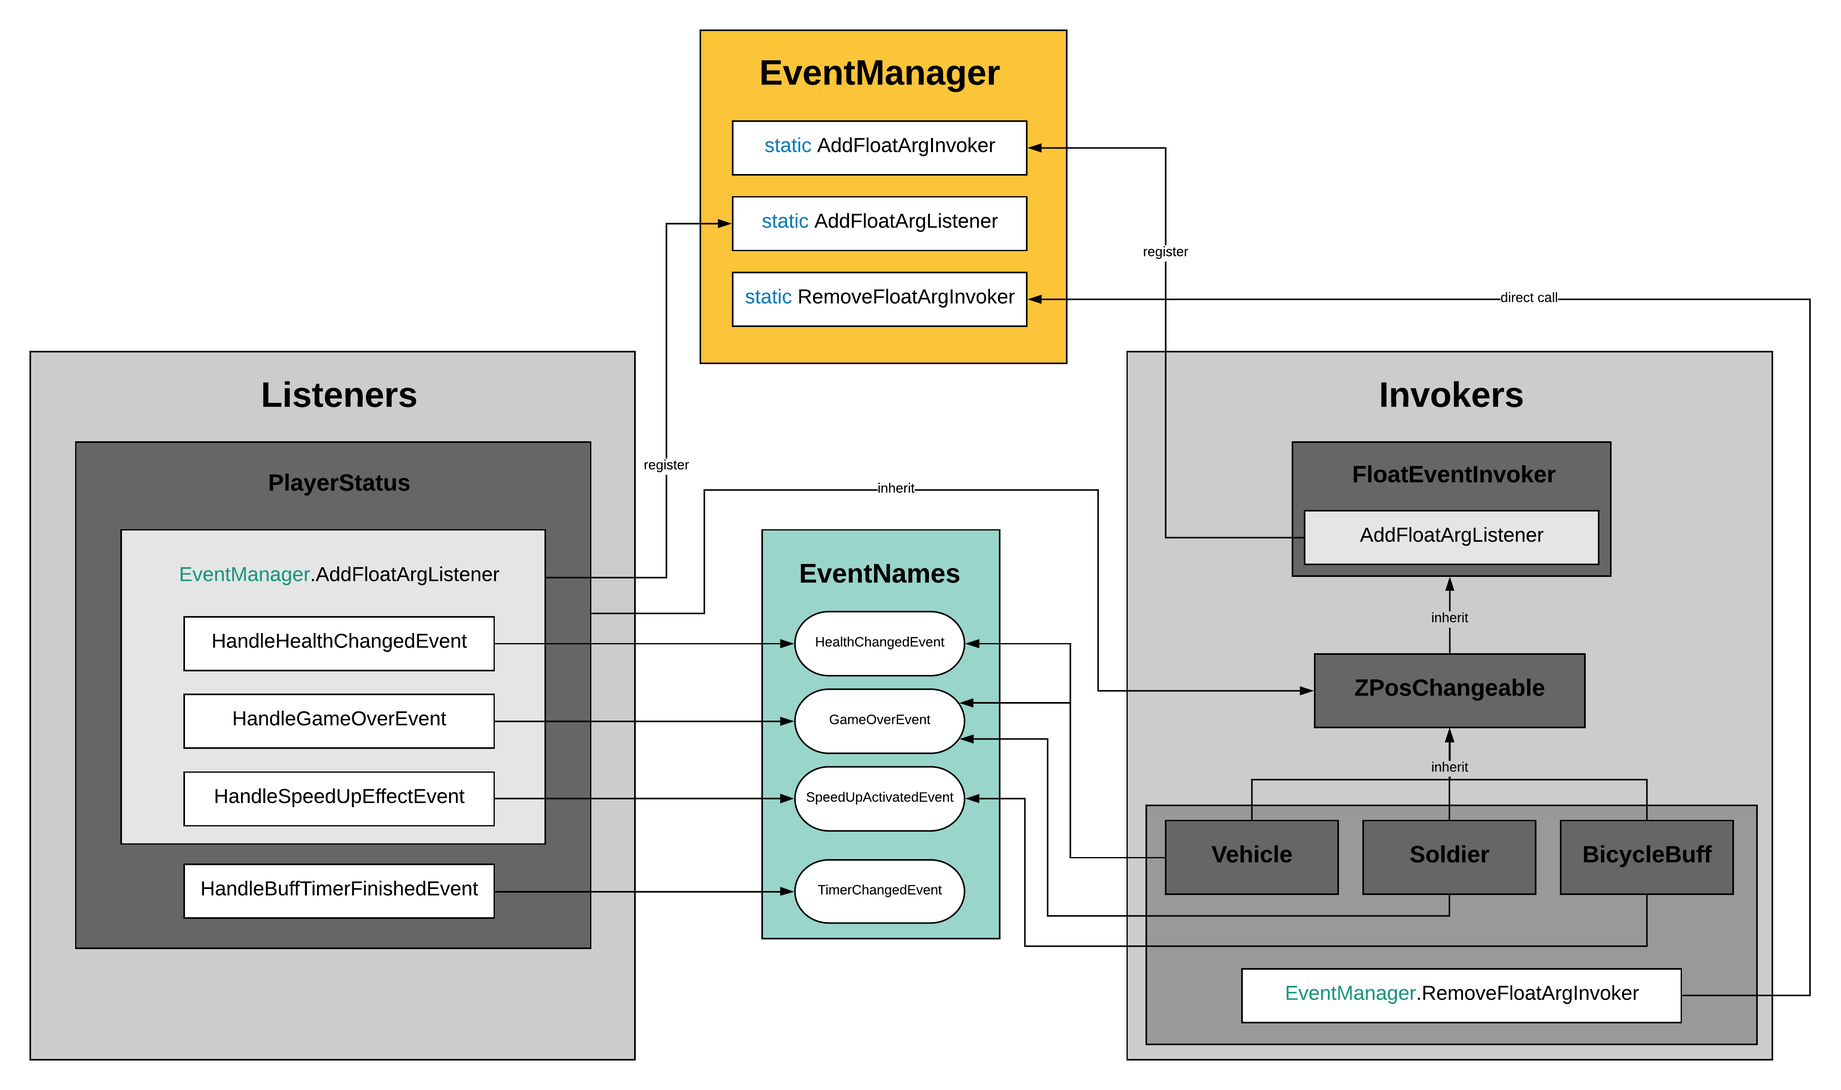
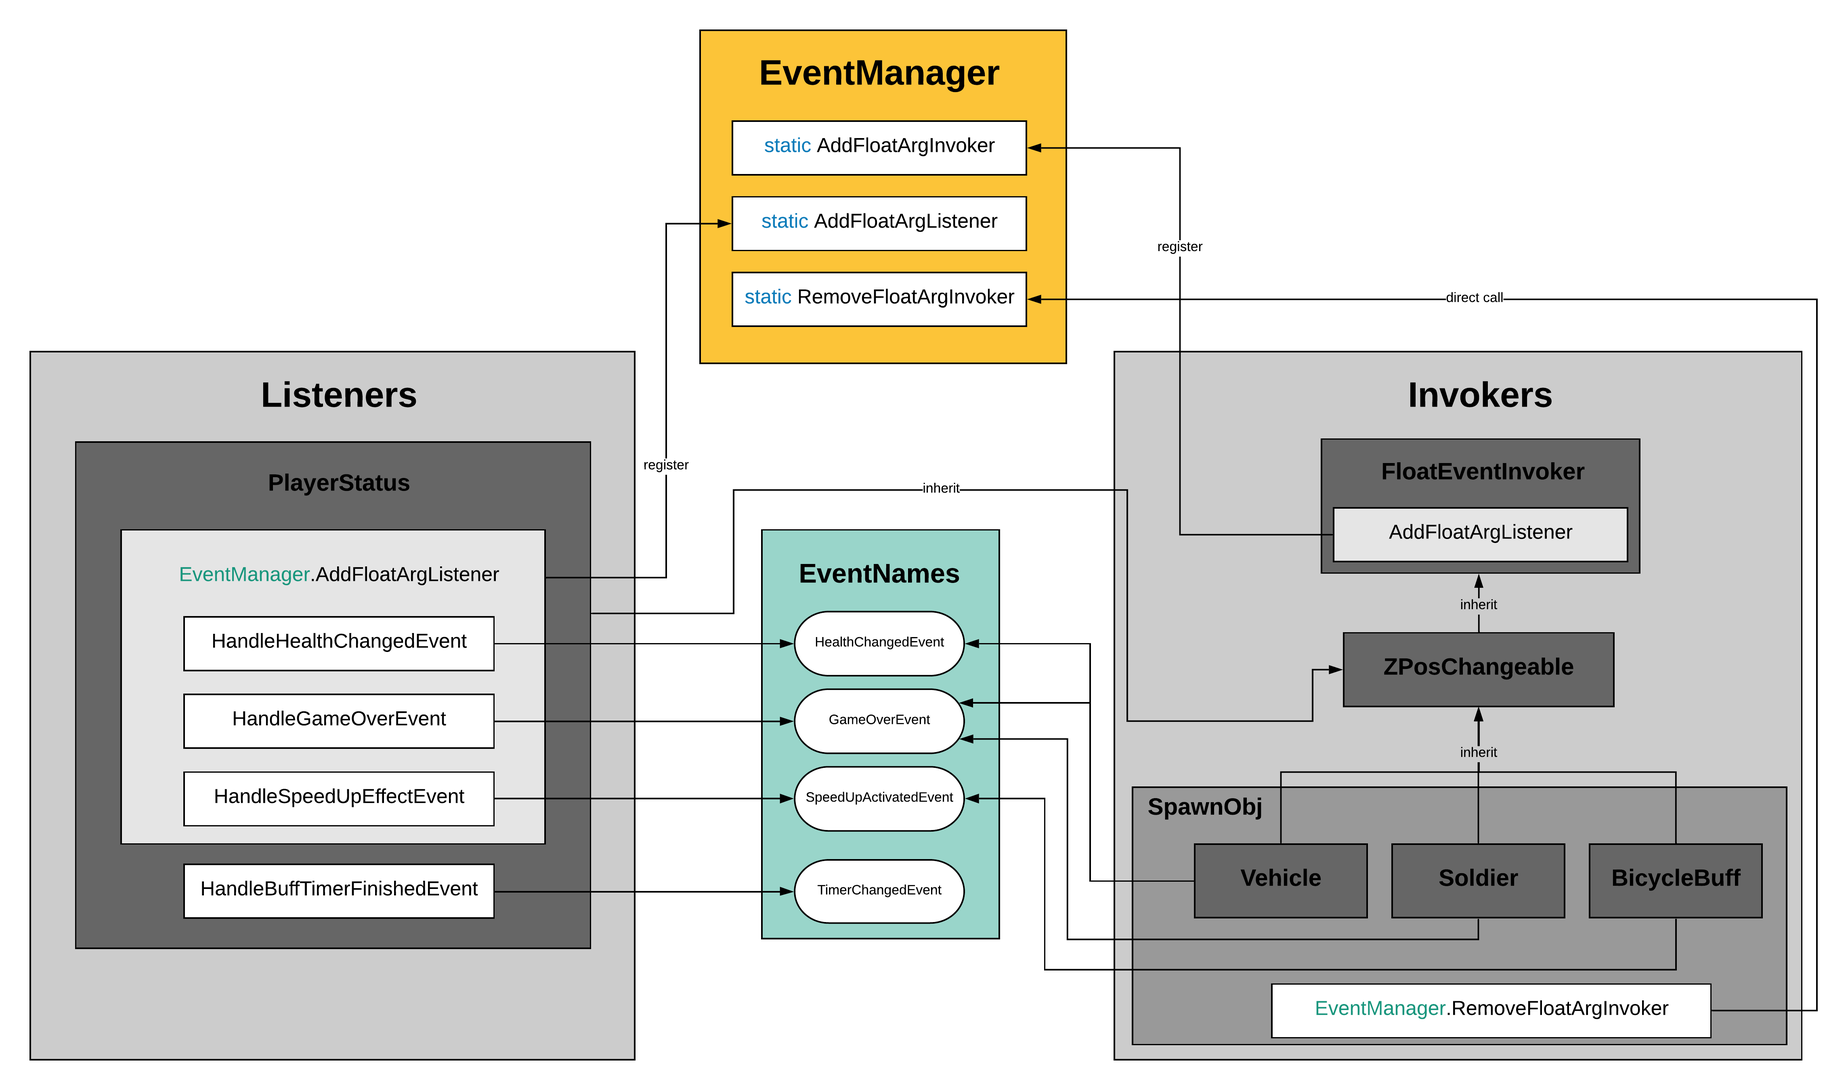
invoker section documentation finished

diff --git a/Documentation/source/_build/html/arch/event_handling.html b/Documentation/source/_build/html/arch/event_handling.html
@@ -84,7 +84,7 @@
 <ul class="current">
 <li class="toctree-l1 current"><a class="current reference internal" href="#">Event Handling Pattern</a><ul>
 <li class="toctree-l2"><a class="reference internal" href="#event-manager">Event Manager</a></li>
-<li class="toctree-l2"><a class="reference internal" href="#invoker">Invoker</a></li>
+<li class="toctree-l2"><a class="reference internal" href="#invokers">Invokers</a></li>
 </ul>
 </li>
 <li class="toctree-l1"><a class="reference internal" href="config_data.html">Configuration Data Utilities &amp; Game Initialisation</a></li>
@@ -242,8 +242,66 @@
 </pre></div>
 </div>
 </div>
-<div class="section" id="invoker">
-<h2>Invoker<a class="headerlink" href="#invoker" title="Permalink to this headline">¶</a></h2>
+<div class="section" id="invokers">
+<h2>Invokers<a class="headerlink" href="#invokers" title="Permalink to this headline">¶</a></h2>
+<p>Instead of defining the invokers’ properties separately, we firstly define a parent class of invokers <code class="docutils literal notranslate"><span class="pre">FloatEventInvoker</span></code>. Dictionary once again has been utilised to enable us to inoke more than one event. The keys don’t have to be strings but any data type, in this case, kyes are enumerations and values are float unity events.</p>
+<div class="highlight-C# notranslate"><div class="highlight"><pre><span></span><span class="k">public</span> <span class="k">class</span> <span class="nc">FloatEventInvoker</span> <span class="p">:</span> <span class="n">MonoBehaviour</span> <span class="p">{</span>
+    <span class="k">protected</span> <span class="n">Dictionary</span><span class="p">&lt;</span><span class="n">EventName</span><span class="p">,</span> <span class="n">UnityEvent</span><span class="p">&lt;</span><span class="kt">float</span><span class="p">&gt;&gt;</span> <span class="n">UnityEvents</span> <span class="p">=</span>
+        <span class="k">new</span> <span class="n">Dictionary</span><span class="p">&lt;</span><span class="n">EventName</span><span class="p">,</span> <span class="n">UnityEvent</span><span class="p">&lt;</span><span class="kt">float</span><span class="p">&gt;&gt;();</span>
+
+    <span class="p">...</span>
+<span class="p">}</span>
+</pre></div>
+</div>
+<p>Then we define the function that adds the given listener for the given event name:</p>
+<div class="highlight-C# notranslate"><div class="highlight"><pre><span></span><span class="k">public</span> <span class="k">void</span> <span class="nf">AddFloatArgListener</span><span class="p">(</span><span class="n">EventName</span> <span class="n">eventName</span><span class="p">,</span> <span class="n">UnityAction</span><span class="p">&lt;</span><span class="kt">float</span><span class="p">&gt;</span> <span class="n">listener</span><span class="p">)</span> <span class="p">{</span>
+    <span class="c1">// only add listeners for supported events, `ContainsKey` check for the key</span>
+    <span class="k">if</span> <span class="p">(</span><span class="n">UnityEvents</span><span class="p">.</span><span class="n">ContainsKey</span><span class="p">(</span><span class="n">eventName</span><span class="p">))</span> <span class="p">{</span>
+        <span class="c1">// get the invoker by putting the key in between square brackets</span>
+        <span class="n">UnityEvents</span><span class="p">[</span><span class="n">eventName</span><span class="p">].</span><span class="n">AddListener</span><span class="p">(</span><span class="n">listener</span><span class="p">);</span>
+    <span class="p">}</span>
+<span class="p">}</span>
+</pre></div>
+</div>
+<div class="admonition note">
+<p class="first admonition-title">Note</p>
+<p class="last">This method has been called in <code class="docutils literal notranslate"><span class="pre">EventManager</span></code> class when we we declare the float argument handlers to be called in listeners and invokers.</p>
+</div>
+<p>For the children and grandchildren classes of invokers, we use <code class="docutils literal notranslate"><span class="pre">Vehicle</span></code> class as an example, register for <code class="docutils literal notranslate"><span class="pre">HealthChangeEvent</span></code> and <code class="docutils literal notranslate"><span class="pre">GameOverEvent</span></code> in the <code class="docutils literal notranslate"><span class="pre">Start</span></code> method:</p>
+<div class="highlight-C# notranslate"><div class="highlight"><pre><span></span><span class="k">protected</span> <span class="k">override</span> <span class="k">void</span> <span class="nf">Start</span><span class="p">()</span> <span class="p">{</span>
+
+    <span class="p">...</span>
+
+    <span class="n">UnityEvents</span><span class="p">.</span><span class="n">Add</span><span class="p">(</span><span class="n">EventName</span><span class="p">.</span><span class="n">HealthChangedEvent</span><span class="p">,</span> <span class="k">new</span> <span class="n">HealthChangedEvent</span><span class="p">());</span>
+    <span class="n">EventManager</span><span class="p">.</span><span class="n">AddFloatArgInvoker</span><span class="p">(</span><span class="n">EventName</span><span class="p">.</span><span class="n">HealthChangedEvent</span><span class="p">,</span> <span class="k">this</span><span class="p">);</span>
+
+    <span class="n">UnityEvents</span><span class="p">.</span><span class="n">Add</span><span class="p">(</span><span class="n">EventName</span><span class="p">.</span><span class="n">GameOverEvent</span><span class="p">,</span> <span class="k">new</span> <span class="n">GameOverEvent</span><span class="p">());</span>
+    <span class="n">EventManager</span><span class="p">.</span><span class="n">AddFloatArgInvoker</span><span class="p">(</span><span class="n">EventName</span><span class="p">.</span><span class="n">GameOverEvent</span><span class="p">,</span> <span class="k">this</span><span class="p">);</span>
+<span class="p">}</span>
+</pre></div>
+</div>
+<p>These events have been triggered when collideing with the player, each time colliding with the player, deduct one health point, and when the health point equals 0, trigger the game over event:</p>
+<div class="highlight-C# notranslate"><div class="highlight"><pre><span></span><span class="k">protected</span> <span class="k">override</span> <span class="k">void</span> <span class="nf">OnTriggerEnter2D</span><span class="p">(</span><span class="n">Collider2D</span> <span class="n">coll</span><span class="p">)</span> <span class="p">{</span>
+    <span class="k">if</span> <span class="p">(</span><span class="n">coll</span><span class="p">.</span><span class="n">gameObject</span><span class="p">.</span><span class="n">CompareTag</span><span class="p">(</span><span class="s">&quot;Player&quot;</span><span class="p">))</span> <span class="p">{</span>
+        <span class="n">UnityEvents</span><span class="p">[</span><span class="n">EventName</span><span class="p">.</span><span class="n">HealthChangedEvent</span><span class="p">].</span><span class="n">Invoke</span><span class="p">(</span><span class="m">1.0f</span><span class="p">);</span>
+
+        <span class="c1">// check for game over</span>
+        <span class="k">if</span> <span class="p">(</span><span class="n">PlayerStatus</span><span class="p">.</span><span class="n">Health</span> <span class="p">==</span> <span class="m">0</span><span class="p">)</span> <span class="p">{</span>
+            <span class="n">UnityEvents</span><span class="p">[</span><span class="n">EventName</span><span class="p">.</span><span class="n">GameOverEvent</span><span class="p">].</span><span class="n">Invoke</span><span class="p">(</span><span class="m">0</span><span class="p">);</span>
+        <span class="p">}</span>
+    <span class="p">}</span>
+
+    <span class="k">base</span><span class="p">.</span><span class="n">OnTriggerEnter2D</span><span class="p">(</span><span class="n">coll</span><span class="p">);</span>
+<span class="p">}</span>
+</pre></div>
+</div>
+<p>Finally, don’t forget to unregister the invoker since we don’t want the <code class="docutils literal notranslate"><span class="pre">Vehicle</span></code> script hanging around in that dictionary in the <code class="docutils literal notranslate"><span class="pre">EventManager</span></code> after the <code class="docutils literal notranslate"><span class="pre">Vehcile</span></code> game object itself was attached to gets destoryed.</p>
+<div class="highlight-C# notranslate"><div class="highlight"><pre><span></span><span class="k">protected</span> <span class="k">override</span> <span class="k">void</span> <span class="nf">OnDestroy</span><span class="p">()</span> <span class="p">{</span>
+    <span class="n">EventManager</span><span class="p">.</span><span class="n">RemoveFloatArgInvoker</span><span class="p">(</span><span class="n">EventName</span><span class="p">.</span><span class="n">HealthChangedEvent</span><span class="p">,</span> <span class="k">this</span><span class="p">);</span>
+    <span class="n">EventManager</span><span class="p">.</span><span class="n">RemoveFloatArgInvoker</span><span class="p">(</span><span class="n">EventName</span><span class="p">.</span><span class="n">GameOverEvent</span><span class="p">,</span> <span class="k">this</span><span class="p">);</span>
+<span class="p">}</span>
+</pre></div>
+</div>
 </div>
 </div>
 

diff --git a/Documentation/source/_build/html/searchindex.js b/Documentation/source/_build/html/searchindex.js
@@ -1,1 +1,1 @@
-Search.setIndex({docnames:["arch/config_data","arch/event_handling","arch/menu","func/env_loop","func/player","func/spawn_obj","index"],envversion:{"sphinx.domains.c":1,"sphinx.domains.changeset":1,"sphinx.domains.cpp":1,"sphinx.domains.javascript":1,"sphinx.domains.math":2,"sphinx.domains.python":1,"sphinx.domains.rst":1,"sphinx.domains.std":1,sphinx:55},filenames:["arch\\config_data.rst","arch\\event_handling.rst","arch\\menu.rst","func\\env_loop.rst","func\\player.rst","func\\spawn_obj.rst","index.rst"],objects:{},objnames:{},objtypes:{},terms:{"catch":6,"class":1,"enum":1,"float":1,"function":[1,6],"import":6,"new":1,"public":1,"static":1,"throw":1,"try":1,"typeof":1,"void":1,For:1,The:[1,6],Then:1,about:1,acceleromet:6,action:1,add:1,addfloatarginvok:1,addfloatarglisten:1,addit:6,after:1,all:1,allow:1,alreadi:1,alreayd:1,architectur:6,argument:1,art:6,avatar:6,awai:6,background:6,bascial:6,base:[1,6],becaus:1,been:[1,6],beetl:6,below:1,between:1,bicycl:6,birthdai:6,booth:6,both:6,buff:6,bus:6,call:1,can:[1,6],centralis:1,certain:6,chase:6,clear:1,code:1,colleg:6,configur:6,connect:1,contain:1,containskei:1,correspond:1,crash:6,creat:[1,6],ctrl:1,data:[1,6],decker:6,declar:1,deduct:6,defin:1,degre:6,deleg:1,design:1,destroi:1,diagram:1,dictionari:1,direct:6,doe:1,doesn:1,don:1,doubl:6,down:6,due:6,dure:6,each:1,eas:1,effici:1,elina:[4,6],elingl:[4,6],els:1,elsewher:1,empti:1,enter:6,entri:1,enumer:1,environ:6,escap:6,event:6,eventmanag:1,eventnam:1,except:1,extract:1,faster:6,file:1,floateventinvok:1,follow:[1,6],foreach:1,forget:1,four:1,from:[1,6],game:1,gameoverev:1,getvalu:1,gift:6,girlfreind:6,girlfriend:6,given:1,goe:1,got:6,grant:6,handl:6,handler:1,has:[1,6],have:[1,6],health:6,healthchangedev:1,hell:6,her:6,howev:6,icon:6,imperi:6,implement:[1,6],increas:1,index:6,init:1,initalis:1,initi:1,initialis:6,instanc:1,interact:1,invinc:6,invok:6,kei:1,kind:6,knock:6,know:1,late:6,like:6,list:1,listen:1,liu:6,london:6,longer:1,love:6,manag:6,mani:6,manipul:6,meet:6,menu:6,method:1,might:1,mode:6,modul:6,morn:6,most:6,move:6,multipl:1,name:[1,6],need:6,nicknam:6,object:1,observ:1,occur:1,occus:6,one:[1,6],order:6,other:1,over:6,page:6,particular:1,pass:1,pattern:6,phone:6,pixel:6,place:6,plai:[1,6],player:6,pleas:6,point:6,prepar:6,privat:1,purpos:1,rather:1,readonli:1,red:6,refer:1,remov:1,removefloatarginvok:1,respond:1,ride:6,road:6,rule:6,run:6,same:1,sampl:6,santand:6,scene:[1,6],script:1,search:6,second:6,see:6,seminar:6,separ:1,session:1,set:6,she:6,shown:1,signatur:1,simpl:[1,6],sinc:6,slightli:6,soldier:6,someth:1,soon:6,spawn:6,specifi:1,speed:6,speedupactivatedev:1,spot:6,sprite:6,start:6,student:6,style:6,system:1,taken:6,telephon:6,than:[1,6],them:1,therefor:1,those:1,through:1,thu:6,tilt:6,time:1,timerchangedev:1,toward:6,traffic:6,two:6,type:1,uniti:1,unityact:1,unityev:1,using:6,util:6,utilis:6,valu:1,vehcl:6,vehicl:6,versa:6,version:6,vice:6,violat:6,want:1,webgl:6,were:6,when:[1,6],where:[1,6],which:1,without:1,you:6,youtub:6,zoom:1},titles:["Configuration Data Utilities &amp; Game Initialisation","Event Handling Pattern","Menu &amp; Scene Management","Background Environment","Player","Game Elements &amp; Spawning","Elinging on Time Documentation"],titleterms:{background:3,basic:6,configur:0,content:6,control:[4,6],data:0,document:6,element:[5,6],eling:6,environ:3,event:1,featur:6,game:[0,5,6],handl:1,indic:6,initialis:0,invok:1,manag:[1,2],manipul:4,menu:2,pattern:1,player:4,scene:2,spawn:5,sprite:4,tabl:6,time:6,util:0}})
+Search.setIndex({docnames:["arch/config_data","arch/event_handling","arch/menu","func/env_loop","func/player","func/spawn_obj","index"],envversion:{"sphinx.domains.c":1,"sphinx.domains.changeset":1,"sphinx.domains.cpp":1,"sphinx.domains.javascript":1,"sphinx.domains.math":2,"sphinx.domains.python":1,"sphinx.domains.rst":1,"sphinx.domains.std":1,sphinx:55},filenames:["arch\\config_data.rst","arch\\event_handling.rst","arch\\menu.rst","func\\env_loop.rst","func\\player.rst","func\\spawn_obj.rst","index.rst"],objects:{},objnames:{},objtypes:{},terms:{"case":1,"catch":6,"class":1,"enum":1,"final":1,"float":1,"function":[1,6],"import":6,"new":1,"public":1,"static":1,"throw":1,"try":1,"typeof":1,"void":1,For:1,The:[1,6],Then:1,These:1,_botlanebot:[],_botlanetop:[],_rb2d:[],_speed:[],_spriterender:[],_toplanebot:[],_toplanetop:[],about:1,acceleromet:6,action:1,add:1,addfloatarginvok:1,addfloatarglisten:1,addit:6,addlisten:1,after:1,again:1,all:1,allow:1,alreadi:1,alreayd:1,ani:1,architectur:6,argument:1,around:1,art:6,attach:1,avatar:6,awai:6,background:6,bascial:6,base:[1,6],becaus:1,been:[1,6],beetl:6,below:1,between:1,bicycl:6,birthdai:6,booth:6,both:6,bracket:1,buff:6,bus:6,call:1,can:[1,6],car:[],centralis:1,certain:6,chase:6,check:1,children:1,clear:1,code:1,coll:1,colleg:6,collid:1,collider2d:1,comparetag:1,configur:6,connect:1,contain:1,containskei:1,correspond:1,crash:6,creat:[1,6],ctrl:1,data:[1,6],decker:6,declar:1,deduct:[1,6],defin:1,degre:6,deleg:1,design:1,destori:1,destroi:1,determin:[],diagram:1,dictionari:1,direct:6,doe:1,doesn:1,don:1,doubl:6,down:6,due:6,dure:6,each:1,eas:1,effici:1,elina:[4,6],elingl:[4,6],els:1,elsewher:1,empti:1,enabl:1,enter:6,entri:1,enumer:1,environ:6,equal:1,escap:6,event:6,eventmanag:1,eventnam:1,exampl:1,except:1,extract:1,faster:6,file:1,firstli:1,floateventinvok:1,follow:[1,6],foreach:1,forget:1,four:1,from:[1,6],game:1,gameobject:1,gameoverev:1,get:1,getcompon:[],getvalu:1,gift:6,girlfreind:6,girlfriend:6,given:1,goe:1,got:6,grandchildren:1,grant:6,handl:6,handler:1,hang:1,has:[1,6],have:[1,6],health:[1,6],healthchangedev:1,healthchangeev:1,hell:6,her:6,howev:6,icon:6,imperi:6,implement:[1,6],increas:1,index:6,init:1,initalis:1,initi:1,initialis:6,inok:1,instanc:1,instead:1,interact:1,invinc:6,invok:6,itself:1,kei:1,kind:6,kinemat:[],knock:6,know:1,kye:1,lane:[],late:6,like:6,list:1,listen:1,liu:6,london:6,longer:1,look:[],love:6,manag:6,mani:6,manipul:6,meet:6,menu:6,method:1,might:1,mode:6,modul:6,monobehaviour:1,more:1,morn:6,most:6,move:6,multipl:1,name:[1,6],need:6,nicknam:6,object:1,observ:1,occur:1,occus:6,onc:1,ondestroi:1,one:[1,6],onli:1,ontriggerenter2d:1,order:6,other:1,over:[1,6],overrid:1,page:6,parent:1,particular:1,pass:1,pattern:6,phone:6,pixel:6,place:6,plai:[1,6],player:[1,6],playerstatu:1,pleas:6,point:[1,6],prepar:6,privat:1,properti:1,protect:1,purpos:1,put:1,rather:1,readonli:1,red:6,refer:1,regist:1,remov:1,removefloatarginvok:1,respond:1,ride:6,rigidbody2d:[],road:6,rule:6,run:6,same:1,sampl:6,santand:6,scene:[1,6],screenbottom:[],screentop:[],screenutil:[],script:1,search:6,second:6,see:6,seminar:6,separ:1,session:1,set:6,setlaneanddirect:[],she:6,shown:1,signatur:1,simpl:[1,6],sinc:[1,6],slightli:6,soldier:6,someth:1,soon:6,spawn:6,specifi:1,speed:6,speedupactivatedev:1,spot:6,sprite:6,spriterender:[],squar:1,start:[1,6],string:1,student:6,style:6,support:1,system:1,taken:6,telephon:6,than:[1,6],them:1,therefor:1,thi:1,those:1,through:1,thu:6,tilt:6,time:1,timerchangedev:1,toward:6,traffic:6,trigger:1,two:6,type:1,uniti:1,unityact:1,unityev:1,unregist:1,use:1,using:6,util:6,utilis:[1,6],valu:1,vehcil:1,vehcl:6,vehicl:[1,6],versa:6,version:6,vice:6,violat:6,want:1,webgl:6,were:6,when:[1,6],where:[1,6],which:1,without:1,you:6,youtub:6,zoom:1},titles:["Configuration Data Utilities &amp; Game Initialisation","Event Handling Pattern","Menu &amp; Scene Management","Background Environment","Player","Game Elements &amp; Spawning","Elinging on Time Documentation"],titleterms:{background:3,basic:6,configur:0,content:6,control:[4,6],data:0,document:6,element:[5,6],eling:6,environ:3,event:1,featur:6,game:[0,5,6],handl:1,indic:6,initialis:0,invok:1,manag:[1,2],manipul:4,menu:2,pattern:1,player:4,scene:2,spawn:5,sprite:4,tabl:6,time:6,util:0}})

diff --git a/Documentation/source/_build/html/index.html b/Documentation/source/_build/html/index.html
@@ -210,7 +210,7 @@
 <ul>
 <li class="toctree-l1"><a class="reference internal" href="arch/event_handling.html">Event Handling Pattern</a><ul>
 <li class="toctree-l2"><a class="reference internal" href="arch/event_handling.html#event-manager">Event Manager</a></li>
-<li class="toctree-l2"><a class="reference internal" href="arch/event_handling.html#invoker">Invoker</a></li>
+<li class="toctree-l2"><a class="reference internal" href="arch/event_handling.html#invokers">Invokers</a></li>
 </ul>
 </li>
 <li class="toctree-l1"><a class="reference internal" href="arch/config_data.html">Configuration Data Utilities &amp; Game Initialisation</a></li>

diff --git a/Assets/Scripts/Events/FloatEventInvoker.cs b/Assets/Scripts/Events/FloatEventInvoker.cs
@@ -3,10 +3,10 @@ using System.Collections.Generic;
 using UnityEngine;
 using UnityEngine.Events;
 
-// Extends MonoBehaviour to support one or more invoking one integer argument UnityEvents
+// Extends MonoBehaviour to support one or more invoking one float argument UnityEvents
 public class FloatEventInvoker : MonoBehaviour {
     // look up values by using keys, the keys don't have to be strings but any data type
-    // in this case, keys are enumerations and values int unity events
+    // in this case, keys are enumerations and values are float unity events
     // dictionary enables us to invoke more than one event
     protected Dictionary<EventName, UnityEvent<float>> UnityEvents =
         new Dictionary<EventName, UnityEvent<float>>();

diff --git a/Documentation/source/arch/event_handling.rst b/Documentation/source/arch/event_handling.rst
@@ -100,5 +100,71 @@ Don't forget to add removal functionality of the invoker when the invoker has be
 
 
 
-Invoker
--------
+Invokers
+--------
+
+Instead of defining the invokers' properties separately, we firstly define a parent class of invokers ``FloatEventInvoker``. Dictionary once again has been utilised to enable us to inoke more than one event. The keys don't have to be strings but any data type, in this case, kyes are enumerations and values are float unity events.
+
+.. code-block:: C#
+
+    public class FloatEventInvoker : MonoBehaviour {
+        protected Dictionary<EventName, UnityEvent<float>> UnityEvents =
+            new Dictionary<EventName, UnityEvent<float>>();
+
+        ...
+    }
+
+Then we define the function that adds the given listener for the given event name:
+
+.. code-block:: C#
+
+        public void AddFloatArgListener(EventName eventName, UnityAction<float> listener) {
+            // only add listeners for supported events, `ContainsKey` check for the key
+            if (UnityEvents.ContainsKey(eventName)) {
+                // get the invoker by putting the key in between square brackets
+                UnityEvents[eventName].AddListener(listener);
+            }
+        }
+
+.. note:: This method has been called in ``EventManager`` class when we we declare the float argument handlers to be called in listeners and invokers.
+
+For the children and grandchildren classes of invokers, we use ``Vehicle`` class as an example, register for ``HealthChangeEvent`` and ``GameOverEvent`` in the ``Start`` method:
+
+.. code-block:: C#
+
+    protected override void Start() {
+        
+        ...
+
+        UnityEvents.Add(EventName.HealthChangedEvent, new HealthChangedEvent());
+        EventManager.AddFloatArgInvoker(EventName.HealthChangedEvent, this);
+
+        UnityEvents.Add(EventName.GameOverEvent, new GameOverEvent());
+        EventManager.AddFloatArgInvoker(EventName.GameOverEvent, this);
+    }
+
+These events have been triggered when collideing with the player, each time colliding with the player, deduct one health point, and when the health point equals 0, trigger the game over event:
+
+.. code-block:: C#
+
+    protected override void OnTriggerEnter2D(Collider2D coll) {
+        if (coll.gameObject.CompareTag("Player")) {
+            UnityEvents[EventName.HealthChangedEvent].Invoke(1.0f);
+
+            // check for game over
+            if (PlayerStatus.Health == 0) {
+                UnityEvents[EventName.GameOverEvent].Invoke(0);
+            }
+        }
+
+        base.OnTriggerEnter2D(coll);
+    }
+
+Finally, don't forget to unregister the invoker since we don't want the ``Vehicle`` script hanging around in that dictionary in the ``EventManager`` after the ``Vehcile`` game object itself was attached to gets destoryed.
+
+.. code-block:: C#
+
+    protected override void OnDestroy() {
+        EventManager.RemoveFloatArgInvoker(EventName.HealthChangedEvent, this);
+        EventManager.RemoveFloatArgInvoker(EventName.GameOverEvent, this);
+    }
